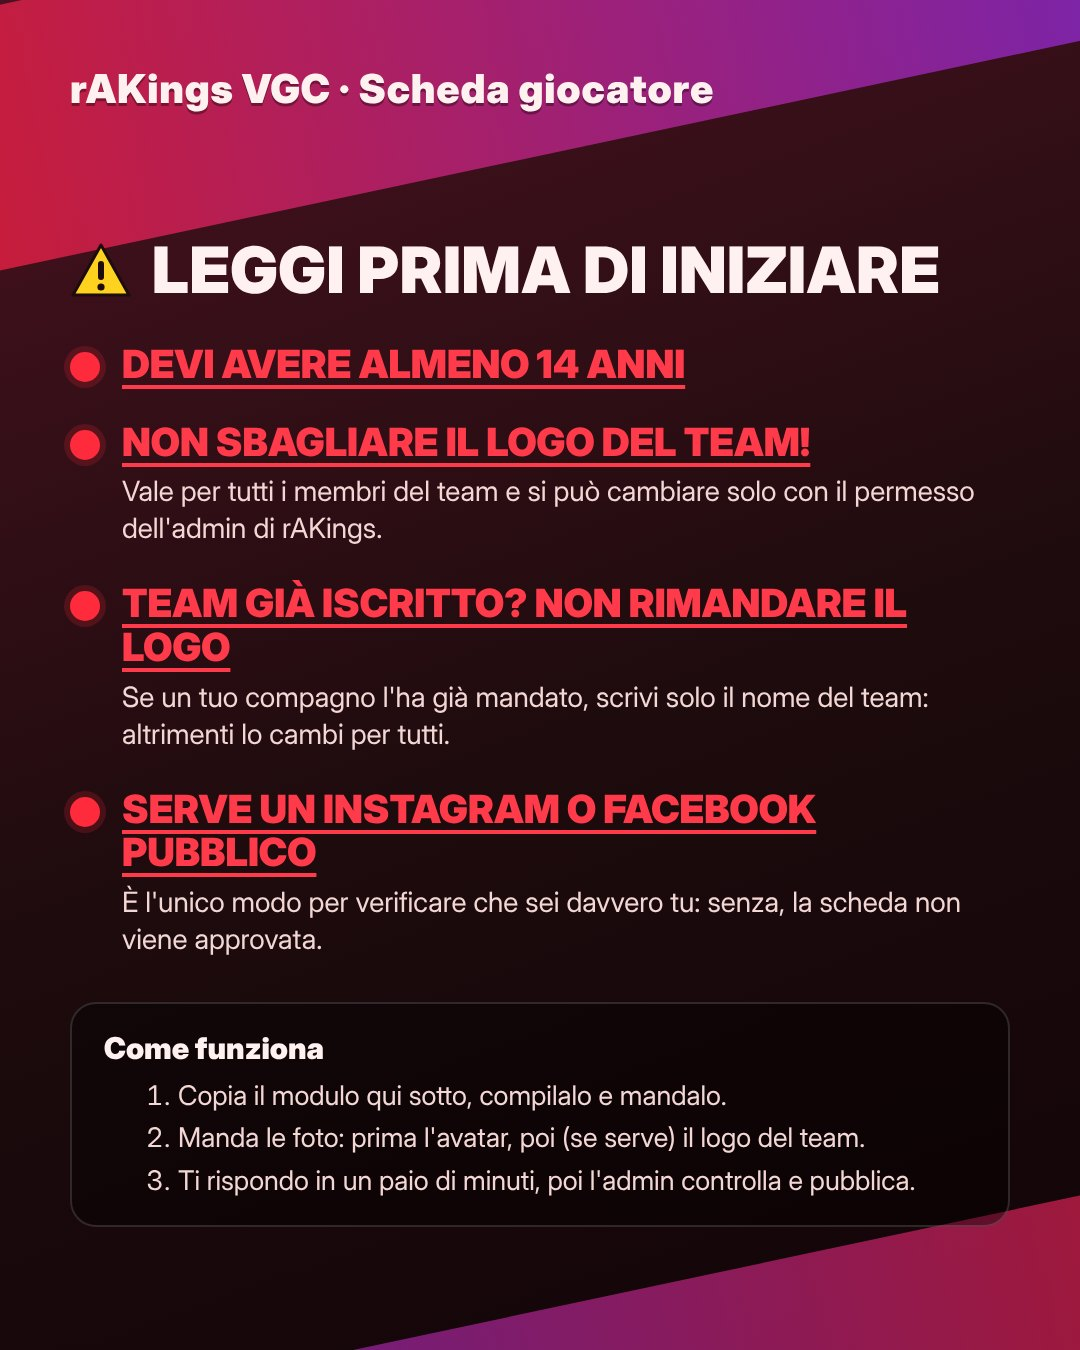
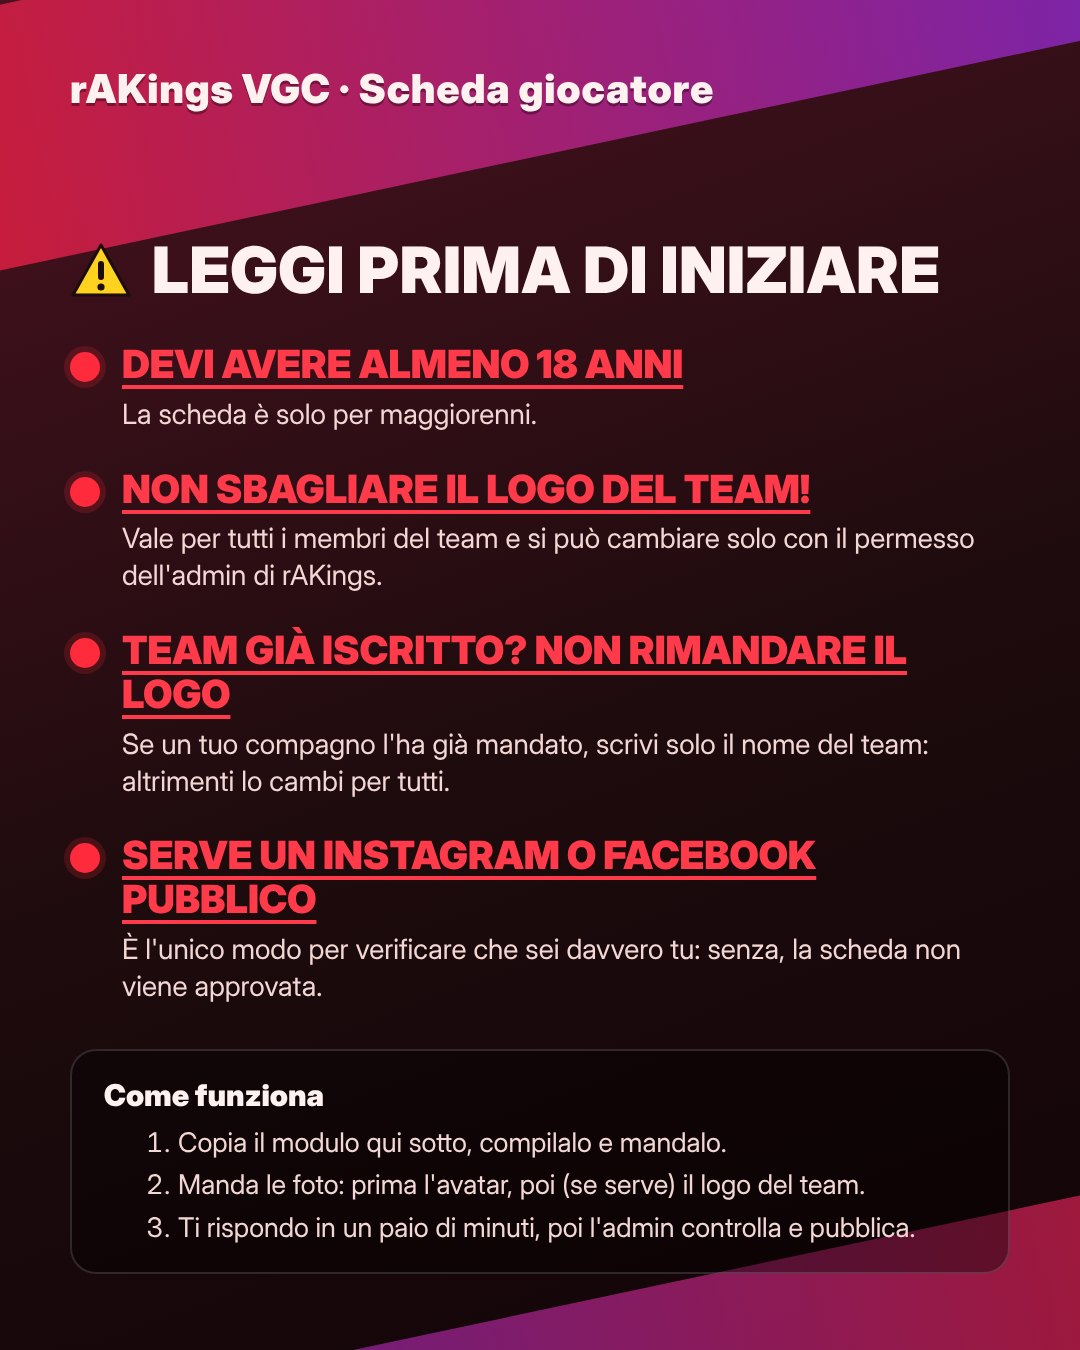
Add files via upload

Changed region(s): [[0.0611, 0.28, 0.9472, 0.9644], [0.4889, 0.2489, 0.6417, 0.28]]

diff --git a/privacy.html b/privacy.html
@@ -13,7 +13,7 @@
 <h2>Hosting</h2><p>Il sito è ospitato su GitHub Pages: GitHub può registrare dati tecnici delle visite (per esempio l'indirizzo IP) secondo la propria informativa.</p>
 <h2>Risultati dei tornei locali</h2><p>I risultati dei tornei locali sono inviati dagli organizzatori. I maggiorenni possono comparire con nome e cognome, i minorenni solo con iniziali o soprannome, e ogni campo è facoltativo (si può anche restare anonimi).</p>
 <h2>Profili social (Instagram, X, YouTube)</h2><p>rAKings VGC pubblica sui propri profili social (Instagram, X, YouTube) immagini e video creati in automatico con i risultati e i tornei già pubblici sul sito, compresi i nomi dei giocatori così come compaiono nei risultati. Per farlo usa gli strumenti ufficiali di Meta (Instagram Graph API) e di Google (YouTube API Services) <b>solo sui propri account</b>: non accede ai profili, ai messaggi o ai dati di chi segue la pagina e non raccoglie dati degli utenti. Usando i contenuti su YouTube valgono i <a href="https://www.youtube.com/t/terms">Termini di servizio di YouTube</a> e l'<a href="https://policies.google.com/privacy">informativa di Google</a>; per Instagram l'<a href="https://privacycenter.instagram.com/policy">informativa di Meta</a>.</p>
-<h2 id="schede">Schede giocatore</h2><p>Chi ha almeno 14 anni può creare una scheda facoltativa scrivendo al bot Telegram ufficiale <a href="https://t.me/rakings_vgc_bot">@rakings_vgc_bot</a>. Vengono salvati i dati che il giocatore manda (nome, nickname e il suo colore, nickname Battlefy/Victory Road e in game, paese, team, tipi preferiti, link ai social, squadre, frase, foto e logo del team) e, cifrati e visibili solo a chi gestisce il sito, l'identificativo Telegram e il nome utente, che servono a verificare il profilo e a rispondere. La scheda compare sul sito solo dopo l'approvazione; i dati in attesa o rifiutati non vengono pubblicati. Il logo del team lo invia il giocatore, che dichiara di avere il diritto di usarlo. Scrivendo /cancella al bot la scheda viene tolta, foto comprese, di solito in pochi minuti. I messaggi al bot passano da Google Apps Script (Google), che li tiene in una coda temporanea solo finché non vengono letti (al massimo 3 giorni), e da un contatore giornaliero anti-abuso che si cancella dopo 2 giorni.</p>
+<h2 id="schede">Schede giocatore</h2><p>Chi ha almeno 18 anni può creare una scheda facoltativa scrivendo al bot Telegram ufficiale <a href="https://t.me/rakings_vgc_bot">@rakings_vgc_bot</a>. Vengono salvati i dati che il giocatore manda (nome, nickname e il suo colore, nickname Battlefy/Victory Road e in game, paese, team, tipi preferiti, link ai social, squadre, frase, foto e logo del team) e, cifrati e visibili solo a chi gestisce il sito, l'identificativo Telegram e il nome utente, che servono a verificare il profilo e a rispondere. La scheda compare sul sito solo dopo l'approvazione; i dati in attesa o rifiutati non vengono pubblicati. Il logo del team lo invia il giocatore, che dichiara di avere il diritto di usarlo. Scrivendo /cancella al bot la scheda viene tolta, foto comprese, di solito in pochi minuti. I messaggi al bot passano da Google Apps Script (Google), che li tiene in una coda temporanea solo finché non vengono letti (al massimo 3 giorni), e da un contatore giornaliero anti-abuso che si cancella dopo 2 giorni.</p>
 <h2 id="cancellazione">Rimozione e cancellazione dei dati</h2><p>Puoi chiedere in qualsiasi momento di togliere il tuo nome da risultati, post o video, o di cancellare qualsiasi dato che ti riguarda, scrivendo a <a href="mailto:ggcriticalhit92@gmail.com">ggcriticalhit92@gmail.com</a>: provvediamo il prima possibile. I dati delle notifiche e dei «mi piace» si cancellano anche da soli disattivando le notifiche e svuotando i dati del sito dalle impostazioni del browser.</p>
 <h2 id="crediti">Fonti dei dati e ringraziamenti</h2><p>Risultati, squadre e statistiche vengono da siti pubblici di fan e dai calendari ufficiali, sempre con il link alla fonte. Grazie a chi rende possibile tutto questo: <a href="https://limitlesstcg.com">Limitless VGC</a> (risultati e storico dei giocatori), <a href="https://victoryroad.pro">Victory Road</a> (tornei VR), <a href="https://www.pokedata.ovh">Pokédata</a> (CP bar e squadre) e il <a href="https://github.com/nerd-of-now/NCP-VGC-Damage-Calculator">Nimbasa City Post Damage Calculator</a> di nerd-of-now (calcolatore danni, licenza MIT). Questo sito non è affiliato a Nintendo, Game Freak, Creatures o The Pokémon Company.</p>
 <hr><h1 id="en">Privacy (English)</h1>
@@ -28,7 +28,7 @@
 <p><b>Hosting.</b> The site is hosted on GitHub Pages, which may log technical visit data such as IP addresses.</p>
 <p><b>Local tournaments.</b> Results are sent by organizers: adults may appear with their full name, minors only with initials or a nickname, and every field is optional.</p>
 <p><b>Social profiles (Instagram, X, YouTube).</b> rAKings VGC publishes on its own social profiles images and videos generated automatically from tournaments and results that are already public on the site, including player names as they appear in the results. It uses the official tools of Meta (Instagram Graph API) and Google (YouTube API Services) <b>on its own accounts only</b>: it does not access followers' profiles, messages or data and does not collect user data. YouTube content is subject to the <a href="https://www.youtube.com/t/terms">YouTube Terms of Service</a> and <a href="https://policies.google.com/privacy">Google's privacy policy</a>; Instagram to <a href="https://privacycenter.instagram.com/policy">Meta's privacy policy</a>.</p>
-<p id="cards"><b>Player cards.</b> Players aged 14 or older can create an optional card by writing to the official Telegram bot <a href="https://t.me/rakings_vgc_bot">@rakings_vgc_bot</a>. We store the data the player sends (name, nickname and its colour, Battlefy/Victory Road and in-game nicknames, country, team, favourite types, social links, teams, quote, photo and team logo) and, encrypted and visible only to the site owner, the Telegram ID and username, used to verify the profile and reply. A card appears on the site only after approval; pending or rejected data is never published. The team logo is sent by the player, who confirms they have the right to use it. Sending /cancella to the bot removes the card, photos included, usually within minutes. Messages to the bot go through Google Apps Script (Google), which keeps them in a temporary queue only until they are read (up to 3 days), plus a daily anti-abuse counter deleted after 2 days.</p>
+<p id="cards"><b>Player cards.</b> Players aged 18 or older can create an optional card by writing to the official Telegram bot <a href="https://t.me/rakings_vgc_bot">@rakings_vgc_bot</a>. We store the data the player sends (name, nickname and its colour, Battlefy/Victory Road and in-game nicknames, country, team, favourite types, social links, teams, quote, photo and team logo) and, encrypted and visible only to the site owner, the Telegram ID and username, used to verify the profile and reply. A card appears on the site only after approval; pending or rejected data is never published. The team logo is sent by the player, who confirms they have the right to use it. Sending /cancella to the bot removes the card, photos included, usually within minutes. Messages to the bot go through Google Apps Script (Google), which keeps them in a temporary queue only until they are read (up to 3 days), plus a daily anti-abuse counter deleted after 2 days.</p>
 <p id="deletion"><b>Removal and data deletion.</b> You can ask at any time to have your name removed from results, posts or videos, or to delete any data about you, by writing to <a href="mailto:ggcriticalhit92@gmail.com">ggcriticalhit92@gmail.com</a>; we act as soon as possible. Notification and like data can also be removed by turning off notifications and clearing the site's data in your browser settings.</p>
 <p id="credits"><b>Data sources and thanks.</b> Results, teams and stats come from public fan sites and official calendars, always linked to the source. Thanks to <a href="https://limitlesstcg.com">Limitless VGC</a> (results and player history), <a href="https://victoryroad.pro">Victory Road</a> (VR tournaments), <a href="https://www.pokedata.ovh">Pokédata</a> (CP bar and teams) and nerd-of-now's <a href="https://github.com/nerd-of-now/NCP-VGC-Damage-Calculator">Nimbasa City Post Damage Calculator</a> (damage calculator, MIT license).</p>
 <p>This site is not affiliated with Nintendo, Game Freak, Creatures or The Pokémon Company.</p>

diff --git a/scheda_bot.py b/scheda_bot.py
@@ -8,7 +8,7 @@ Gira anche da solo 4 volte al giorno come riserva. Senza SCHEDA_CODA_URL legge i
 A ogni giro:
   - legge i messaggi nuovi (coda di Apps Script, oppure getUpdates) e, solo senza Deno, risponde ai comandi /start, /scheda, /aiuto;
   - unisce i messaggi di ogni giocatore arrivati nel giro (testo con il modello + foto: prima l'avatar, poi il logo del team);
-  - controlla la scheda (14 anni confermati, nome, almeno un profilo Instagram o Facebook, tipi validi, link Pokepaste);
+  - controlla la scheda (18 anni confermati, nome, almeno un profilo Instagram o Facebook, tipi validi, link Pokepaste);
   - legge le squadre dai link Pokepaste (open teamsheet: Pokémon, strumento, abilità, tera, mosse; niente EV);
   - salva la scheda IN ATTESA in schede/attesa.json, CIFRATA con BACKUP_CHIAVE (il repo è pubblico: niente foto o
     link visibili prima dell'approvazione); l'approvazione si fa dalla pagina admin (scheda «Schede»), che lancia
@@ -74,15 +74,15 @@ CAMPI = {  # chiave del modello (IT/EN) -> campo
     "youtube": "youtube", "tiktok": "tiktok",
     "squadre": "squadre", "teams": "squadre", "pokepaste": "squadre",
     "frase": "frase", "quote": "frase",
-    "14 anni": "eta", "ho almeno 14 anni": "eta", "eta": "eta", "età": "eta", "age": "eta",
-    "i am 14 or older": "eta", "14+": "eta",
+    "18 anni": "eta", "ho almeno 18 anni": "eta", "sono maggiorenne": "eta", "eta": "eta", "età": "eta", "age": "eta",
+    "i am 18 or older": "eta", "18+": "eta",
 }
 SOCIAL_HOST = {
     "instagram": ("instagram.com",), "facebook": ("facebook.com", "fb.com"), "x": ("x.com", "twitter.com"),
     "twitch": ("twitch.tv",), "youtube": ("youtube.com", "youtu.be"), "tiktok": ("tiktok.com",),
 }
 
-BENVENUTO = "👋 Ciao! Con questo bot crei la tua *scheda giocatore* su rAKings VGC.\n\n⚠ *LEGGI PRIMA DI INIZIARE* ⚠\n\n⚠🔴 *Non sbagliare il logo del team!*\nIl logo vale per tutti i membri del team e si può cambiare solo con il permesso dell'admin di rAKings.\n\n⚠ *Il tuo team è già iscritto?*\nSe un tuo compagno ha già mandato il logo del team, tu *non mandarlo di nuovo*: scrivi solo il nome del team nel modulo, altrimenti rischi di cambiarlo per tutti.\n\n⚠ *Serve un profilo social aperto*\nCi vuole almeno un profilo Instagram o Facebook pubblico: è l'unico modo che abbiamo per verificare che sei davvero tu. Senza, la scheda non può essere approvata e non comparirà sull'app.\n\n📋 *Come funziona*\n1. Copia il modulo che trovi qui sotto, compilalo e mandalo.\n2. Manda le foto: prima l'avatar, poi (se serve) il logo del team.\n3. Ti rispondo in un paio di minuti; poi l'admin controlla la scheda e la pubblica.\n\n✏ Per modificare la scheda rimanda il modulo con /scheda · 🗑 Per eliminarla scrivi /cancella\n\nInviando la scheda confermi di avere *almeno 14 anni* e che dati, foto e profili social sono tuoi. Se invii il logo di un team dichiari di avere il diritto di usarlo e accetti che venga mostrato su rAKings VGC: la responsabilità del logo è tua.\n\n🇬🇧 Copy the template below, fill it in and send it with your avatar. ⚠ Double-check your team logo: it is shared by the whole team and only the rAKings admin can change it. If a teammate already sent it, do not send it again. An open Instagram or Facebook profile is required to verify it is really you. You must be at least 14. /cancella deletes your card."   # stesso testo dello script Google (Codice.gs)
+BENVENUTO = "👋 Ciao! Con questo bot crei la tua *scheda giocatore* su rAKings VGC.\n\n⚠ *LEGGI PRIMA DI INIZIARE* ⚠\n\n⚠🔴 *Non sbagliare il logo del team!*\nIl logo vale per tutti i membri del team e si può cambiare solo con il permesso dell'admin di rAKings.\n\n⚠ *Il tuo team è già iscritto?*\nSe un tuo compagno ha già mandato il logo del team, tu *non mandarlo di nuovo*: scrivi solo il nome del team nel modulo, altrimenti rischi di cambiarlo per tutti.\n\n⚠ *Serve un profilo social aperto*\nCi vuole almeno un profilo Instagram o Facebook pubblico: è l'unico modo che abbiamo per verificare che sei davvero tu. Senza, la scheda non può essere approvata e non comparirà sull'app.\n\n📋 *Come funziona*\n1. Copia il modulo che trovi qui sotto, compilalo e mandalo.\n2. Manda le foto: prima l'avatar, poi (se serve) il logo del team.\n3. Ti rispondo in un paio di minuti; poi l'admin controlla la scheda e la pubblica.\n\n✏ Per modificare la scheda rimanda il modulo con /scheda · 🗑 Per eliminarla scrivi /cancella\n\nInviando la scheda confermi di avere *almeno 18 anni* e che dati, foto e profili social sono tuoi. Se invii il logo di un team dichiari di avere il diritto di usarlo e accetti che venga mostrato su rAKings VGC: la responsabilità del logo è tua.\n\n🇬🇧 Copy the template below, fill it in and send it with your avatar. ⚠ Double-check your team logo: it is shared by the whole team and only the rAKings admin can change it. If a teammate already sent it, do not send it again. An open Instagram or Facebook profile is required to verify it is really you. You must be at least 18. /cancella deletes your card."   # stesso testo dello script Google (Codice.gs)
 MODELLO = (
     "Copia questo modello, compilalo e mandalo con le foto (prima avatar, poi logo del team) — "
     "copy, fill in and send it with your photos:\n\n"
@@ -104,7 +104,7 @@ MODELLO = (
     "Squadre: (fino a 6 link Pokepaste, uno per riga, con il formato davanti)\n"
     "Reg M-C: https://pokepast.es/...\n"
     "Frase: (facoltativa, max 140 caratteri)\n"
-    "Ho almeno 14 anni: SI"
+    "Ho almeno 18 anni: SI"
 )
 AIUTO = (
     "ℹ /scheda modello da compilare · /cancella elimina la tua scheda · /start come funziona.\n"
@@ -288,7 +288,7 @@ def costruisci(campi, foto, utente):
     errori, avvisi = [], []
     eta = norm(campi.get("eta"))
     if eta not in ("si", "sì", "yes", "y", "s", "ok", "true"):
-        errori.append("manca la conferma «Ho almeno 14 anni: SI» / missing «I am 14 or older: YES»")
+        errori.append("manca la conferma «Ho almeno 18 anni: SI»: la scheda è solo per maggiorenni / missing «I am 18 or older: YES»")
     nome = (campi.get("nome") or "").strip()
     cognome = (campi.get("cognome") or "").strip()
     if nome.startswith("("):
